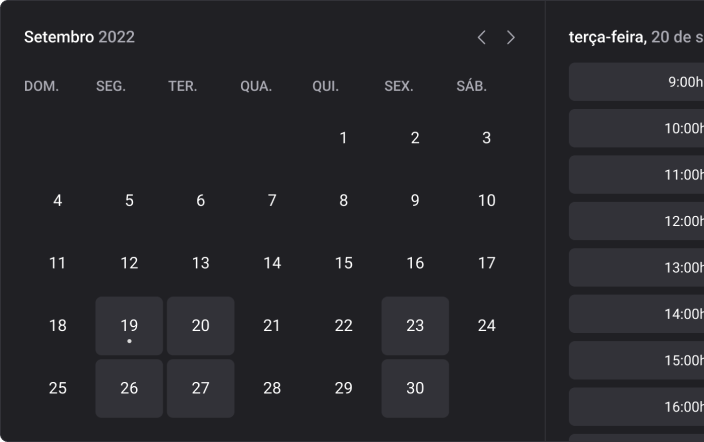
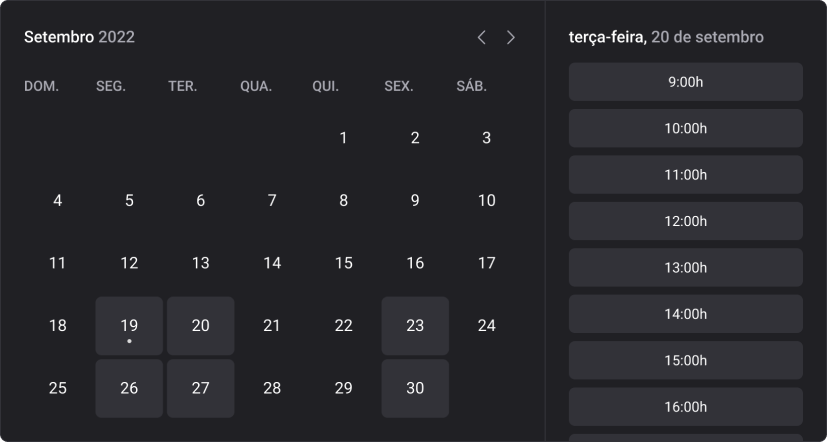
styles: home

diff --git a/src/pages/home/styles.ts b/src/pages/home/styles.ts
@@ -2,10 +2,8 @@ import { styled, Heading, Text } from '@ignite-ui/react'
 
 export const Container = styled('div', {
   maxWidth: 'calc(100vw - (100vw - 1160px) / 2)',
-  width: 1200,
-  height: '100vh',
-  background: 'gray.500',
   marginLeft: 'auto',
+  height: '100vh',
   overflow: 'hidden',
   display: 'flex',
   alignItems: 'center',
@@ -17,12 +15,23 @@ export const Hero = styled('div', {
   padding: '0 $10',
 
   [`${Heading}`]: {
-    color: 'red',
+    '@media(max-width: 600px)': {
+      fontSize: '$6xl',
+    },
+    // color: 'red',
   },
 
   [`${Text}`]: {
+    marginTop: '$2',
     color: 'ignite.300',
   },
 })
 
-export const Preview = styled('div', {})
+export const Preview = styled('div', {
+  paddingRight: '$8',
+  overflow: 'hidden',
+
+  '@media(max-width: 600px)': {
+    display: 'none',
+  },
+})
